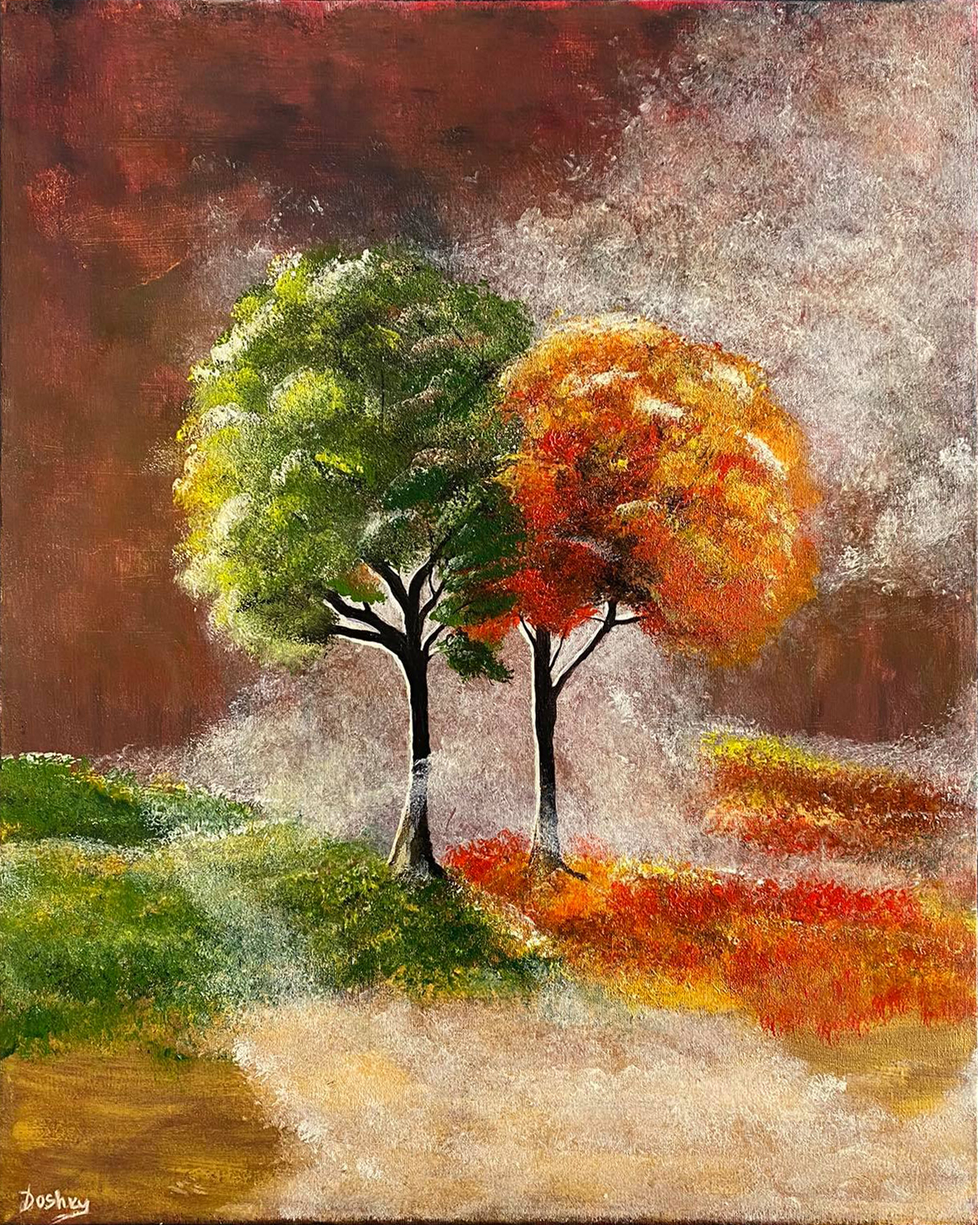
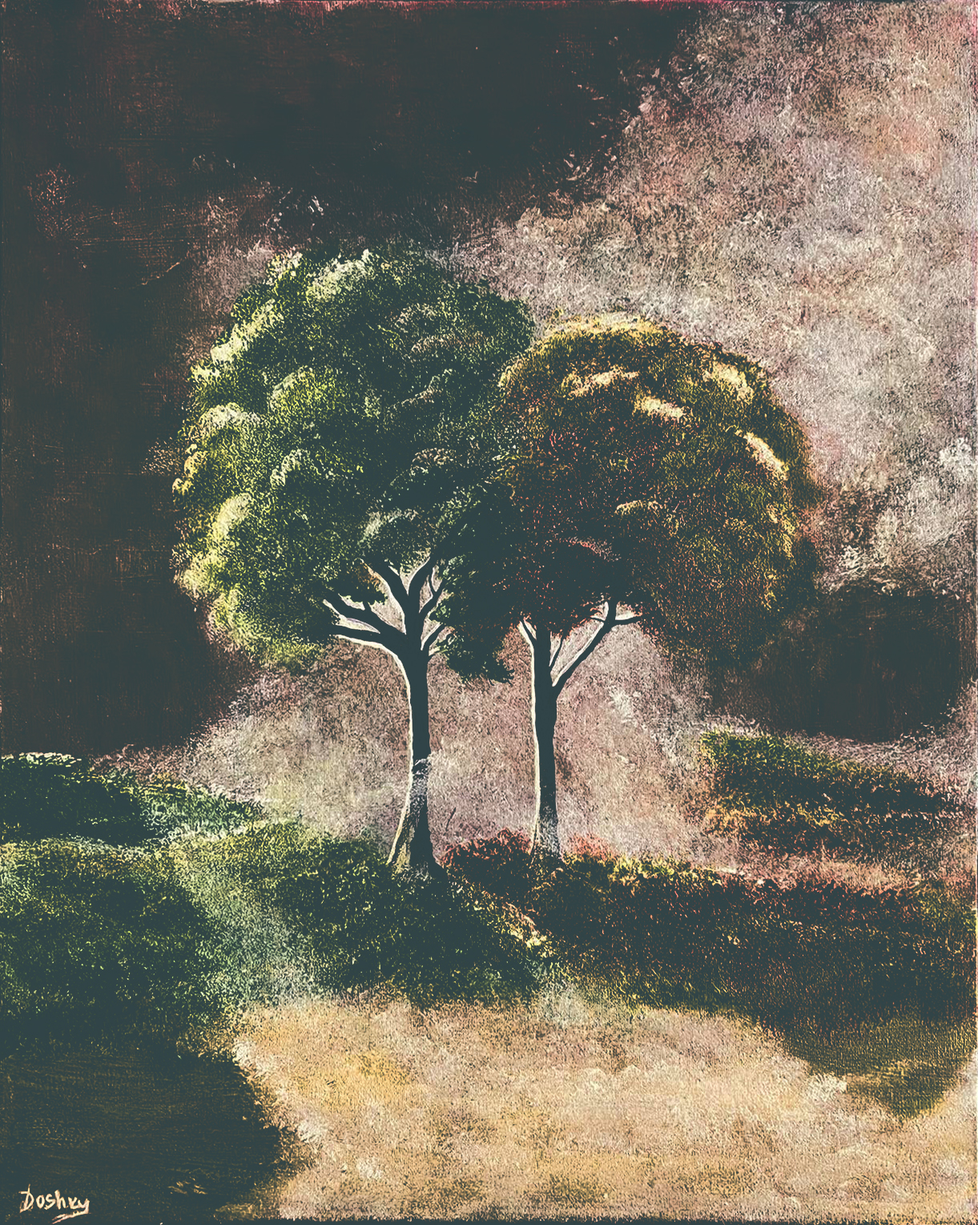
Gallery thumbnails size increased and actual image colors tweaked a little

diff --git a/assets/css/work.css b/assets/css/work.css
@@ -1,5 +1,5 @@
 .work-section-entry-list { 
-	--work-section-entry-list-column-count: 3; 
+	/*--work-section-entry-list-column-count: 3; */
 	--work-section-entry-list-column-gutter-x: 0.5em; 
 	--work-section-entry-list-column-gutter-y: var( --work-section-entry-list-column-gutter-x ); 
 
@@ -35,7 +35,7 @@
 
 } */
 
-.work-section-entry:nth-child( -n + 3 ) { 
+/*.work-section-entry:nth-child( -n + 3 ) { 
 	margin-top: 0; 
 
 }
@@ -43,7 +43,7 @@
 .work-section-entry:nth-child( 3n + 1 ) { 
 	margin-left: 0; 
 
-} 
+} */ 
 
 .work-section-image { 
 	display: block; 
@@ -58,4 +58,61 @@
 /*.work-section-image:hover { 
 	opacity: 1; 
 	
-}*/
+}*/ 
+
+@media screen and ( min-width: 781px ) { 
+
+	.work-section-entry-list { 
+		--work-section-entry-list-column-count: 3; 
+
+	} 
+
+	.work-section-entry:nth-child( -n + 3 ) { 
+		margin-top: 0; 
+	
+	}
+	
+	.work-section-entry:nth-child( 3n + 1 ) { 
+		margin-left: 0; 
+	
+	} 
+	
+} 
+
+@media screen and ( max-width: 780px ) and ( min-width: 521px ) { 
+
+	.work-section-entry-list { 
+		--work-section-entry-list-column-count: 2; 
+
+	} 
+
+	.work-section-entry:nth-child( -n + 2 ) { 
+		margin-top: 0; 
+	
+	}
+	
+	.work-section-entry:nth-child( 2n + 1 ) { 
+		margin-left: 0; 
+	
+	} 
+	
+} 
+
+@media screen and ( max-width: 520px ) { 
+
+	.work-section-entry-list { 
+		--work-section-entry-list-column-count: 1; 
+
+	} 
+
+	.work-section-entry:nth-child( 1 ) { 
+		margin-top: 0; 
+	
+	}
+	
+	.work-section-entry:nth-child( n ) { 
+		margin-left: 0; 
+	
+	} 
+	
+} 

diff --git a/_includes/work.html b/_includes/work.html
@@ -2,11 +2,12 @@
 
 	<ul class= "entry-list picture-entry-list work-section-entry-list"> 
 	{% for picture in include.section.body %} 
+		{% assign thumbPath = picture.src | append: ".png" %} 
 		<li class= "entry picture-entry work-section-entry"> 
 			<a 
 				class= "work-section-image" 
 				href= "/assets/images/{{ picture.src }}" 
-				style= "background-image: url( '/assets/images/{{ picture.src }}' );" 
+				style= "background-image: url( '/assets/images/{{ thumbPath }}' );" 
 			>
 				Painting 
 			</a>
